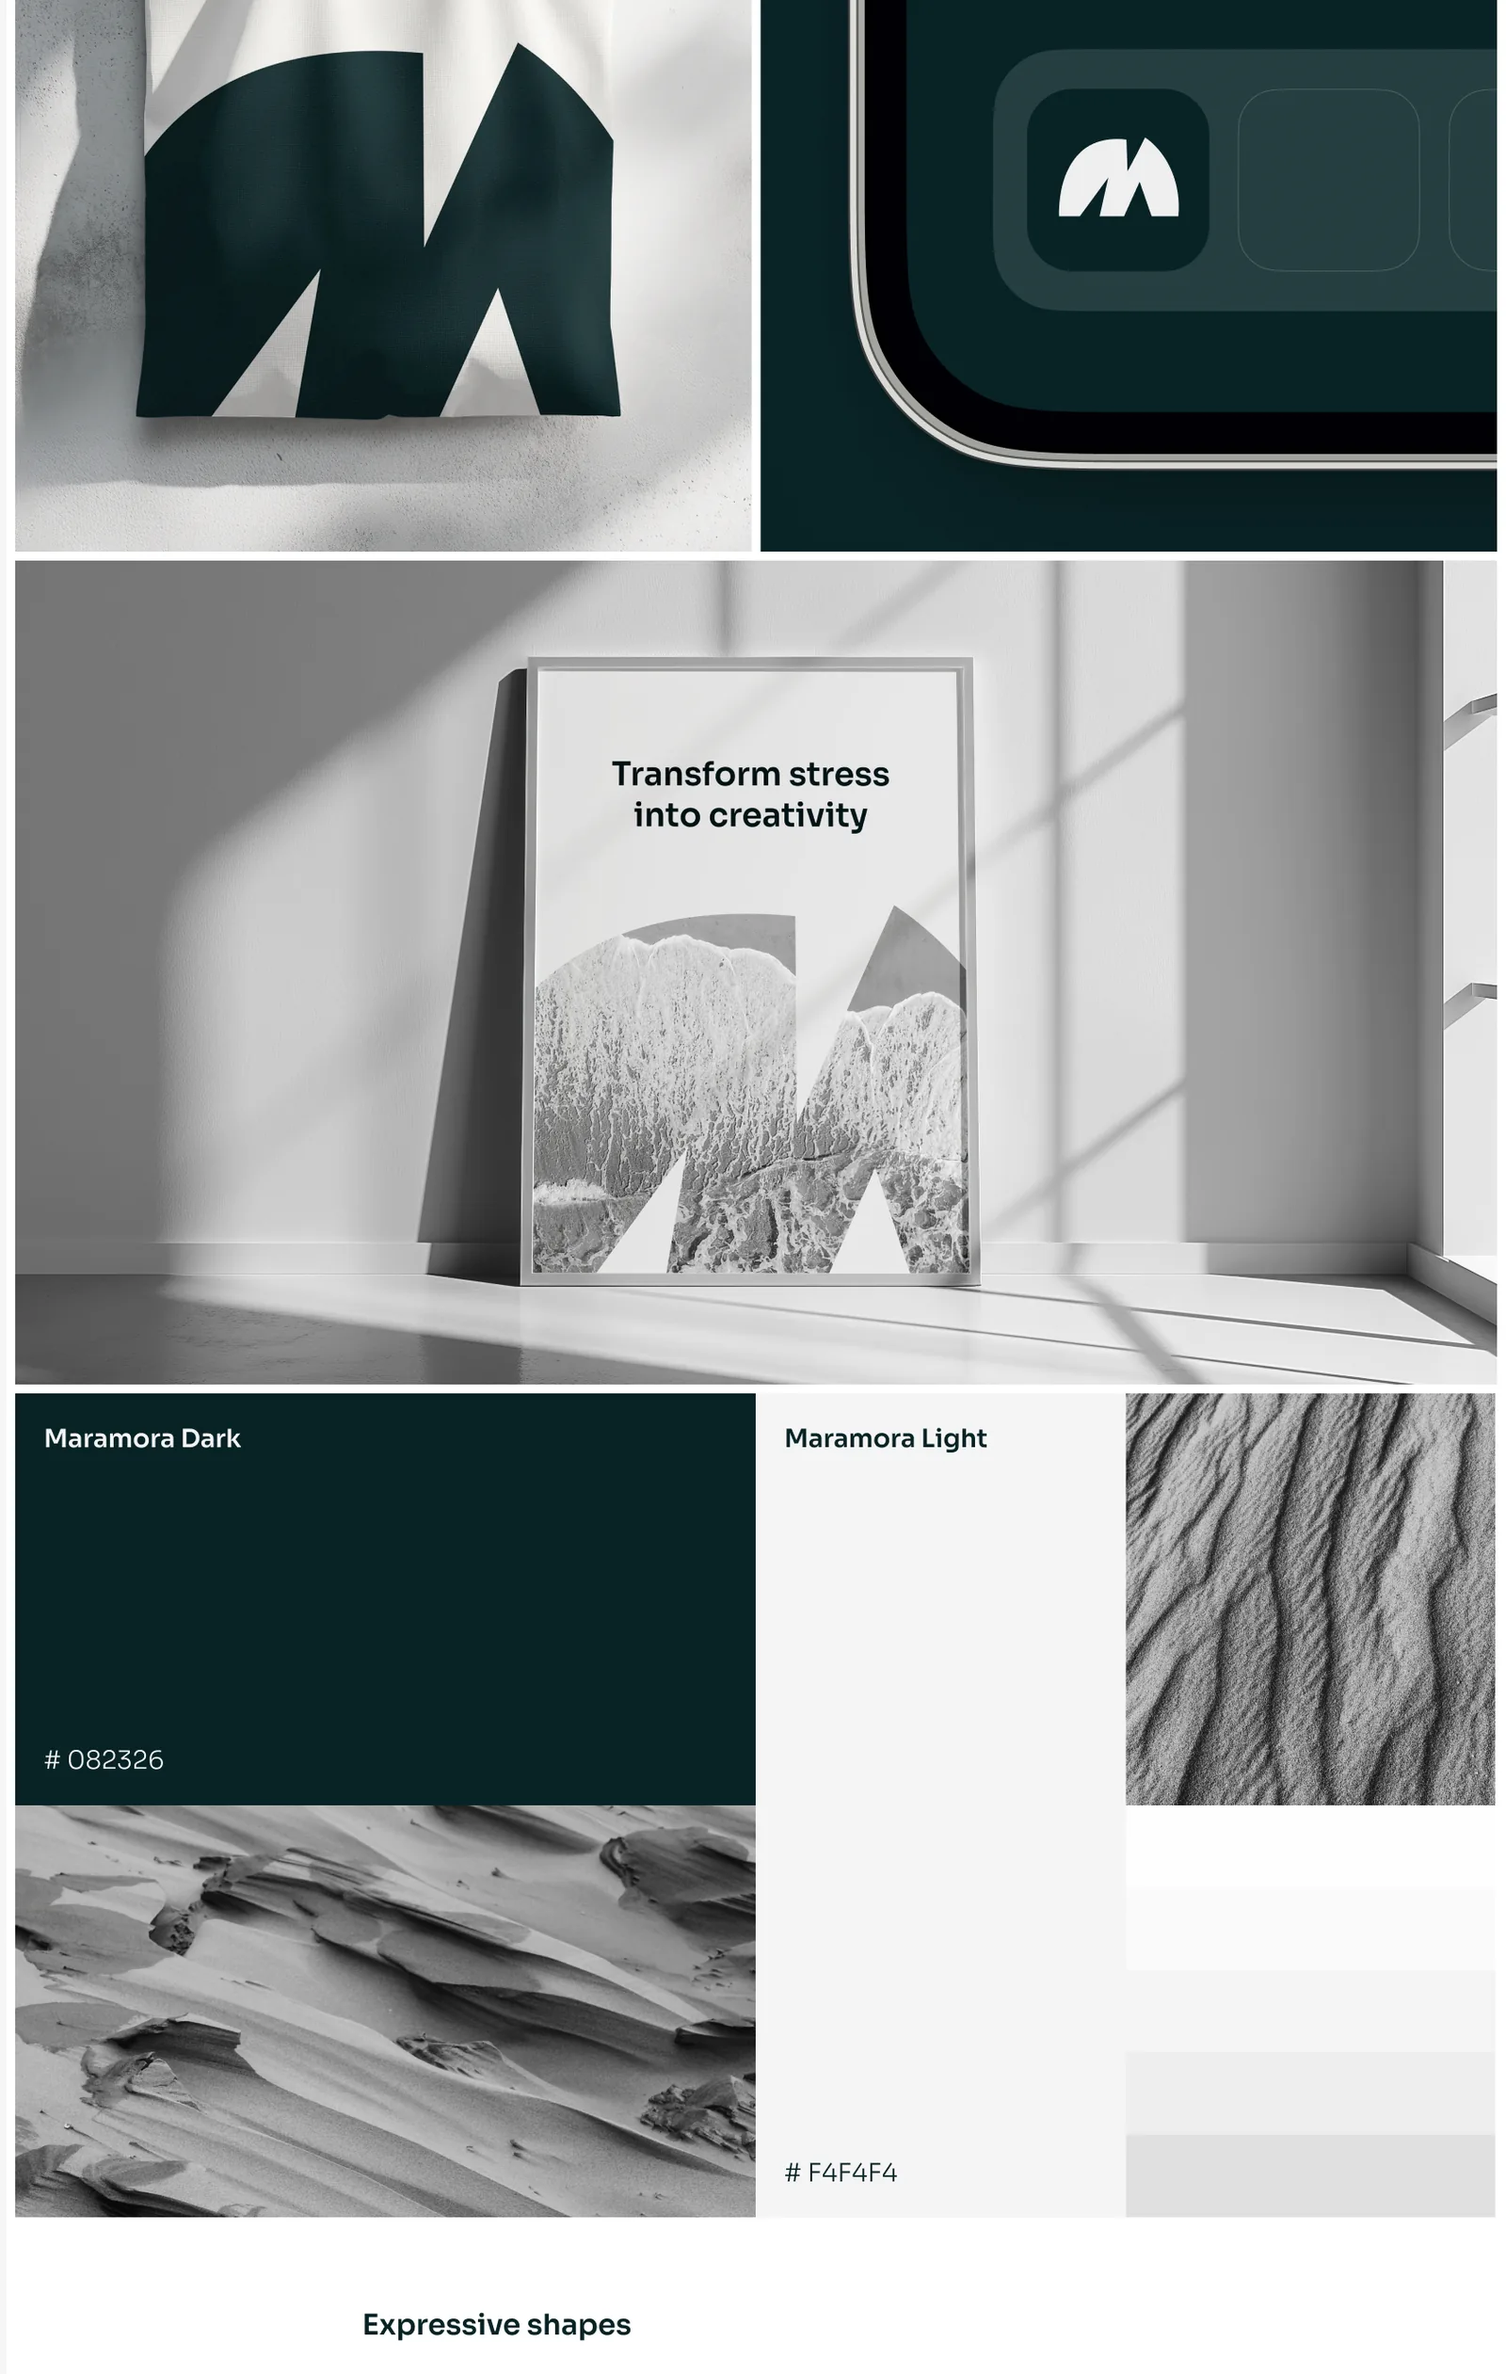
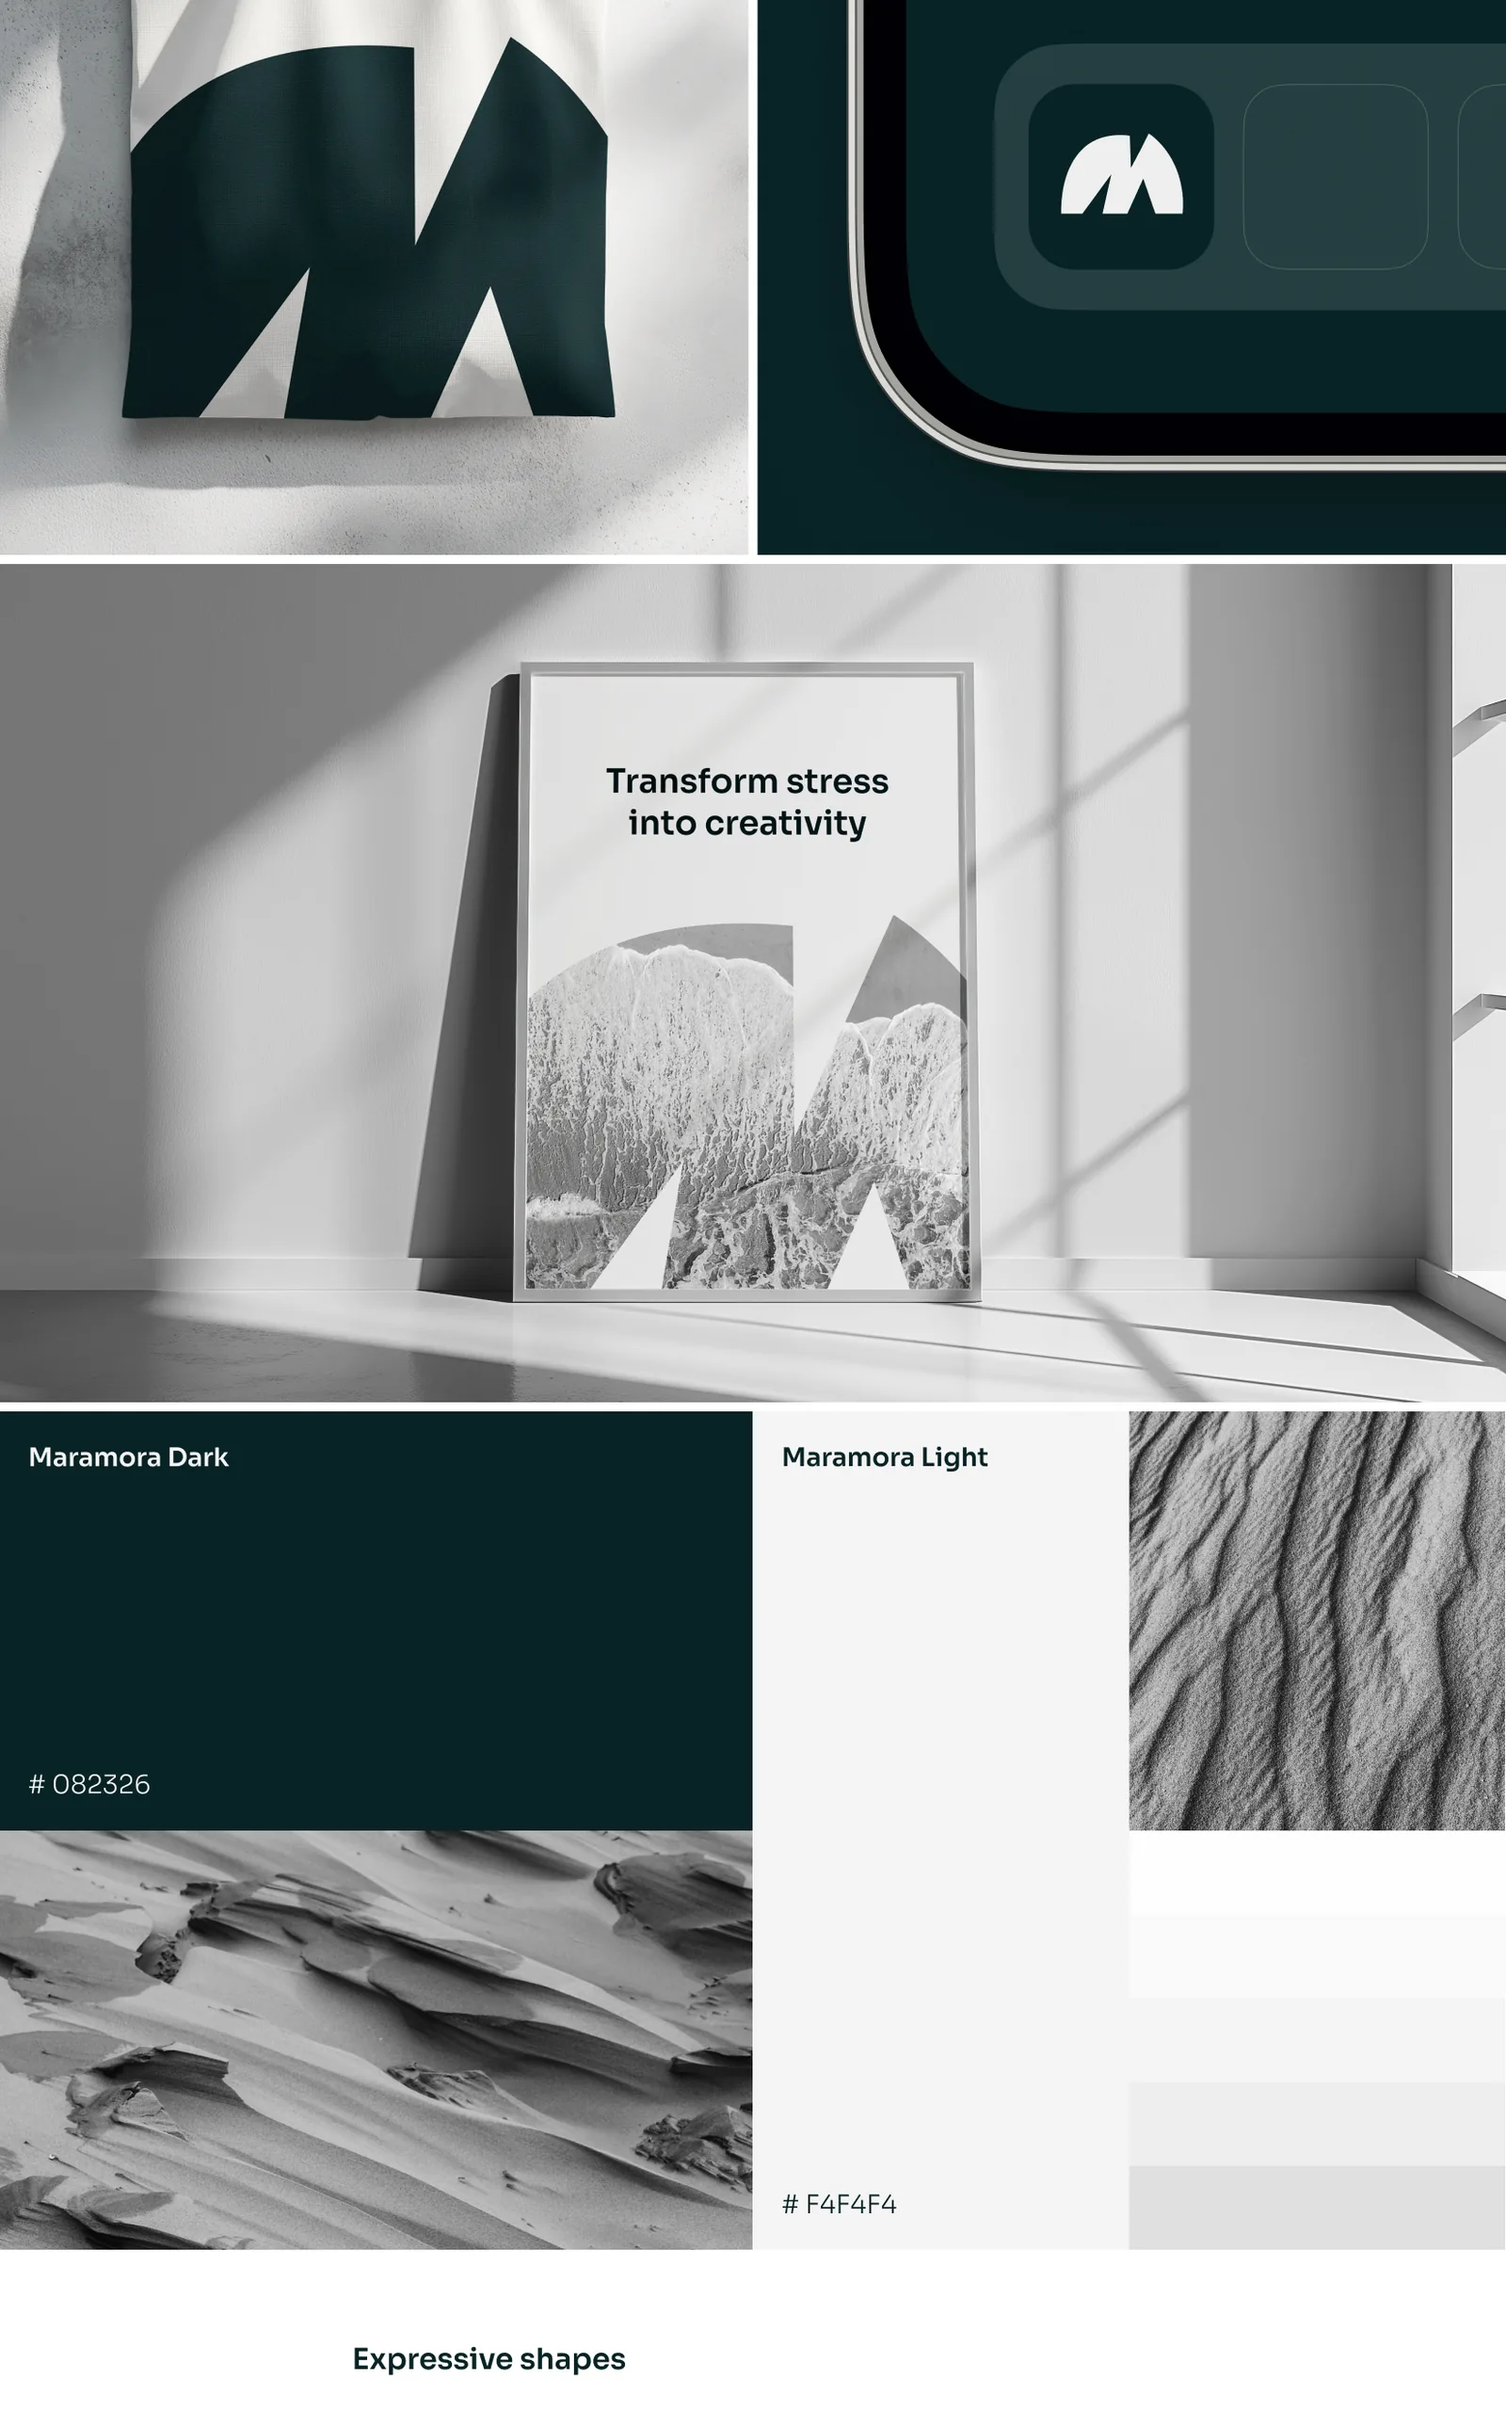
Crop white frame from Maramora visual
- Remove the white border from the Figma frame on all sides
- Re-cut the five case slices at 1600 and 1280 px
- Update slice heights in index.html

Claude-Session: https://claude.ai/code/session_01Ly6mXCWMUGv7KHkj1sKcKh

diff --git a/index.html b/index.html
@@ -2605,11 +2605,11 @@
     <div class="meta-wide"><dt>Deliverables</dt><dd>Visual Identity, App Design, Logo Design</dd></div>
   </dl>
   <div class="case-visual">
-    <figure><img src="img/mara-case-1-1280.webp" srcset="img/mara-case-1-1280.webp 1280w, img/mara-case-1-1600.webp 1600w" sizes="(max-width: 900px) 92vw, 88vw" width="1600" height="2521" alt="Maramora visual case, part 1 of 5: hero and product description" loading="lazy" decoding="async"></figure>
-    <figure><img src="img/mara-case-2-1280.webp" srcset="img/mara-case-2-1280.webp 1280w, img/mara-case-2-1600.webp 1600w" sizes="(max-width: 900px) 92vw, 88vw" width="1600" height="2522" alt="Maramora visual case, part 2 of 5: poster mockup and colour palette" loading="lazy" decoding="async"></figure>
-    <figure><img src="img/mara-case-3-1280.webp" srcset="img/mara-case-3-1280.webp 1280w, img/mara-case-3-1600.webp 1600w" sizes="(max-width: 900px) 92vw, 88vw" width="1600" height="2521" alt="Maramora visual case, part 3 of 5: expressive shapes and collage" loading="lazy" decoding="async"></figure>
-    <figure><img src="img/mara-case-4-1280.webp" srcset="img/mara-case-4-1280.webp 1280w, img/mara-case-4-1600.webp 1600w" sizes="(max-width: 900px) 92vw, 88vw" width="1600" height="2522" alt="Maramora visual case, part 4 of 5: practice visuals and mobile app design" loading="lazy" decoding="async"></figure>
-    <figure><img src="img/mara-case-5-1280.webp" srcset="img/mara-case-5-1280.webp 1280w, img/mara-case-5-1600.webp 1600w" sizes="(max-width: 900px) 92vw, 88vw" width="1600" height="2521" alt="Maramora visual case, part 5 of 5: app screens" loading="lazy" decoding="async"></figure>
+    <figure><img src="img/mara-case-1-1280.webp" srcset="img/mara-case-1-1280.webp 1280w, img/mara-case-1-1600.webp 1600w" sizes="(max-width: 900px) 92vw, 88vw" width="1600" height="2561" alt="Maramora visual case, part 1 of 5: hero and product description" loading="lazy" decoding="async"></figure>
+    <figure><img src="img/mara-case-2-1280.webp" srcset="img/mara-case-2-1280.webp 1280w, img/mara-case-2-1600.webp 1600w" sizes="(max-width: 900px) 92vw, 88vw" width="1600" height="2561" alt="Maramora visual case, part 2 of 5: poster mockup and colour palette" loading="lazy" decoding="async"></figure>
+    <figure><img src="img/mara-case-3-1280.webp" srcset="img/mara-case-3-1280.webp 1280w, img/mara-case-3-1600.webp 1600w" sizes="(max-width: 900px) 92vw, 88vw" width="1600" height="2561" alt="Maramora visual case, part 3 of 5: expressive shapes and collage" loading="lazy" decoding="async"></figure>
+    <figure><img src="img/mara-case-4-1280.webp" srcset="img/mara-case-4-1280.webp 1280w, img/mara-case-4-1600.webp 1600w" sizes="(max-width: 900px) 92vw, 88vw" width="1600" height="2561" alt="Maramora visual case, part 4 of 5: practice visuals and mobile app design" loading="lazy" decoding="async"></figure>
+    <figure><img src="img/mara-case-5-1280.webp" srcset="img/mara-case-5-1280.webp 1280w, img/mara-case-5-1600.webp 1600w" sizes="(max-width: 900px) 92vw, 88vw" width="1600" height="2561" alt="Maramora visual case, part 5 of 5: app screens" loading="lazy" decoding="async"></figure>
   </div>
   <a class="case-next" href="#metarun"><strong>Next project</strong><span>Metarun</span></a>
 </article>
